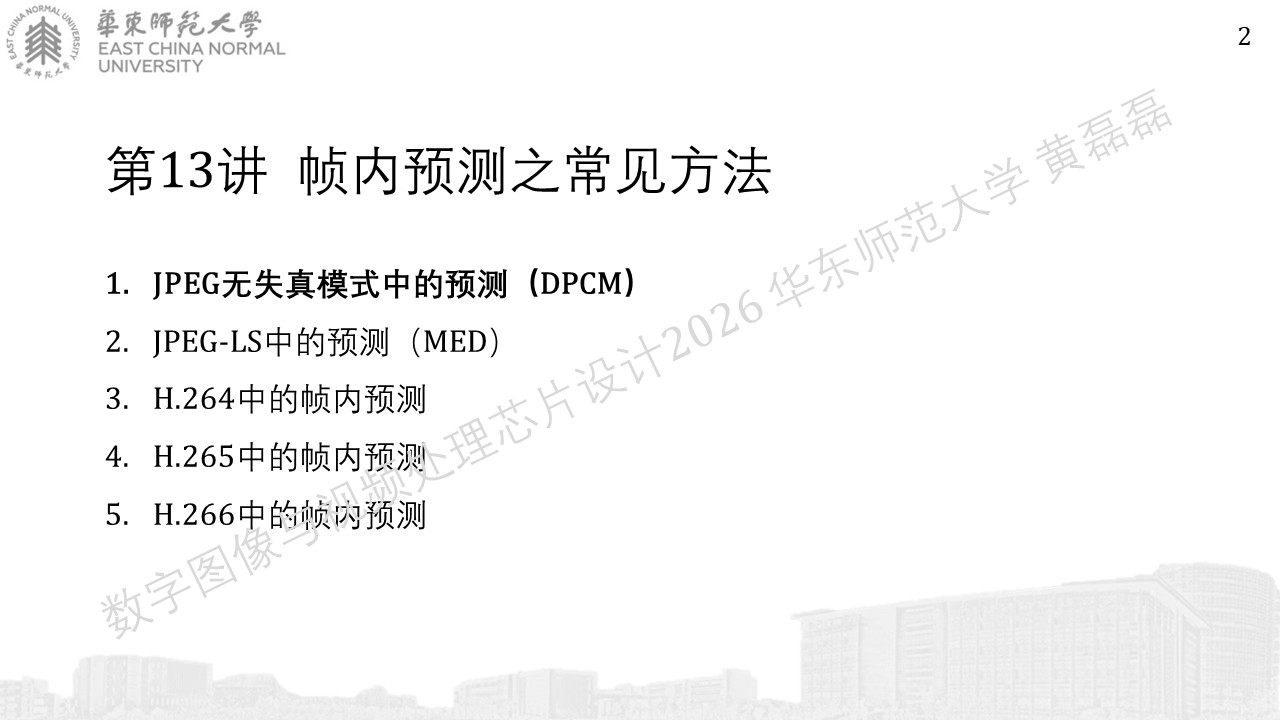
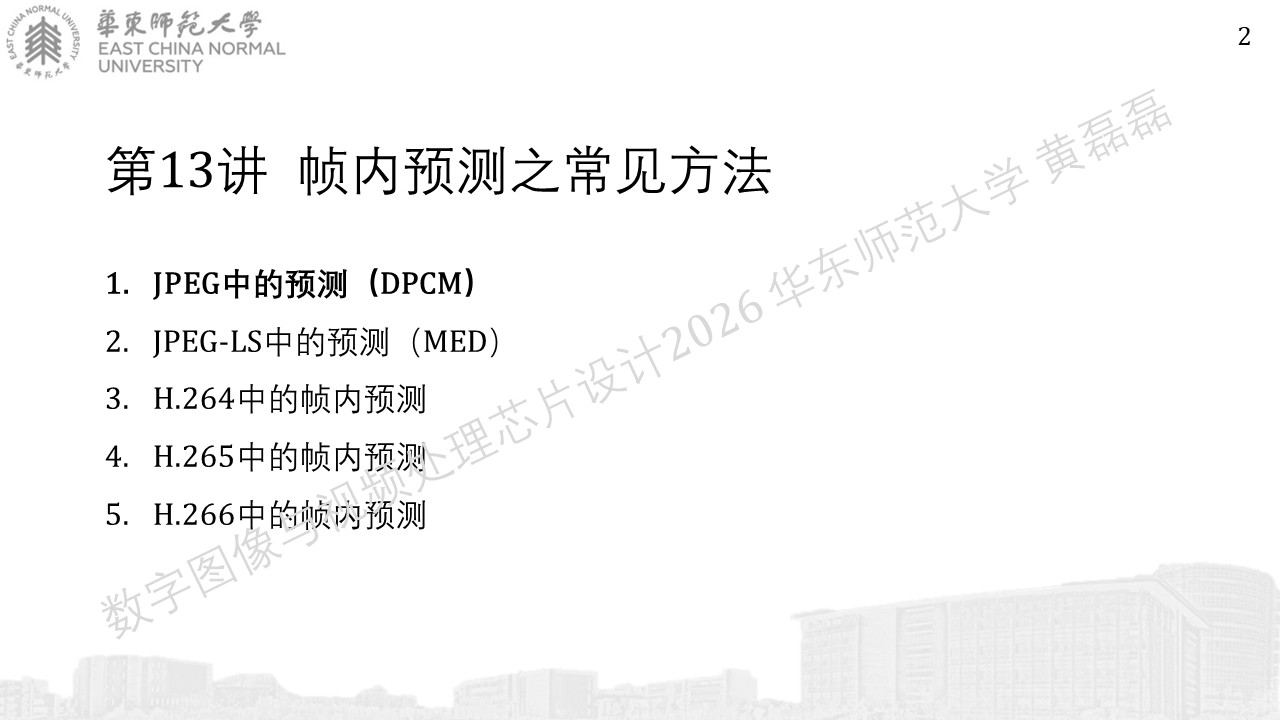
modified

Changed region(s): [[0.1562, 0.3667, 0.5, 0.4278]]

diff --git a/source/index.rst b/source/index.rst
@@ -28,6 +28,10 @@
    数字图像与视频处理芯片设计 - 第08讲 - (熵)编码 - 常见方法/index
    数字图像与视频处理芯片设计 - 第09讲 - (熵)编码 - 其他方法/index
    数字图像与视频处理芯片设计 - 第10讲 - (熵)编码 - 实验课(实验)/index
+   数字图像与视频处理芯片设计 - 第11讲 - (熵)编码 - 实验课(答疑)/index
+   数字图像与视频处理芯片设计 - 第12讲 - 帧内预测 - 基本原理/index
+   数字图像与视频处理芯片设计 - 第13讲 - 帧内预测 - 常见方法/index
+   数字图像与视频处理芯片设计 - 第14讲 - 帧内预测 - 块压缩/index
 
 
 往年课件
